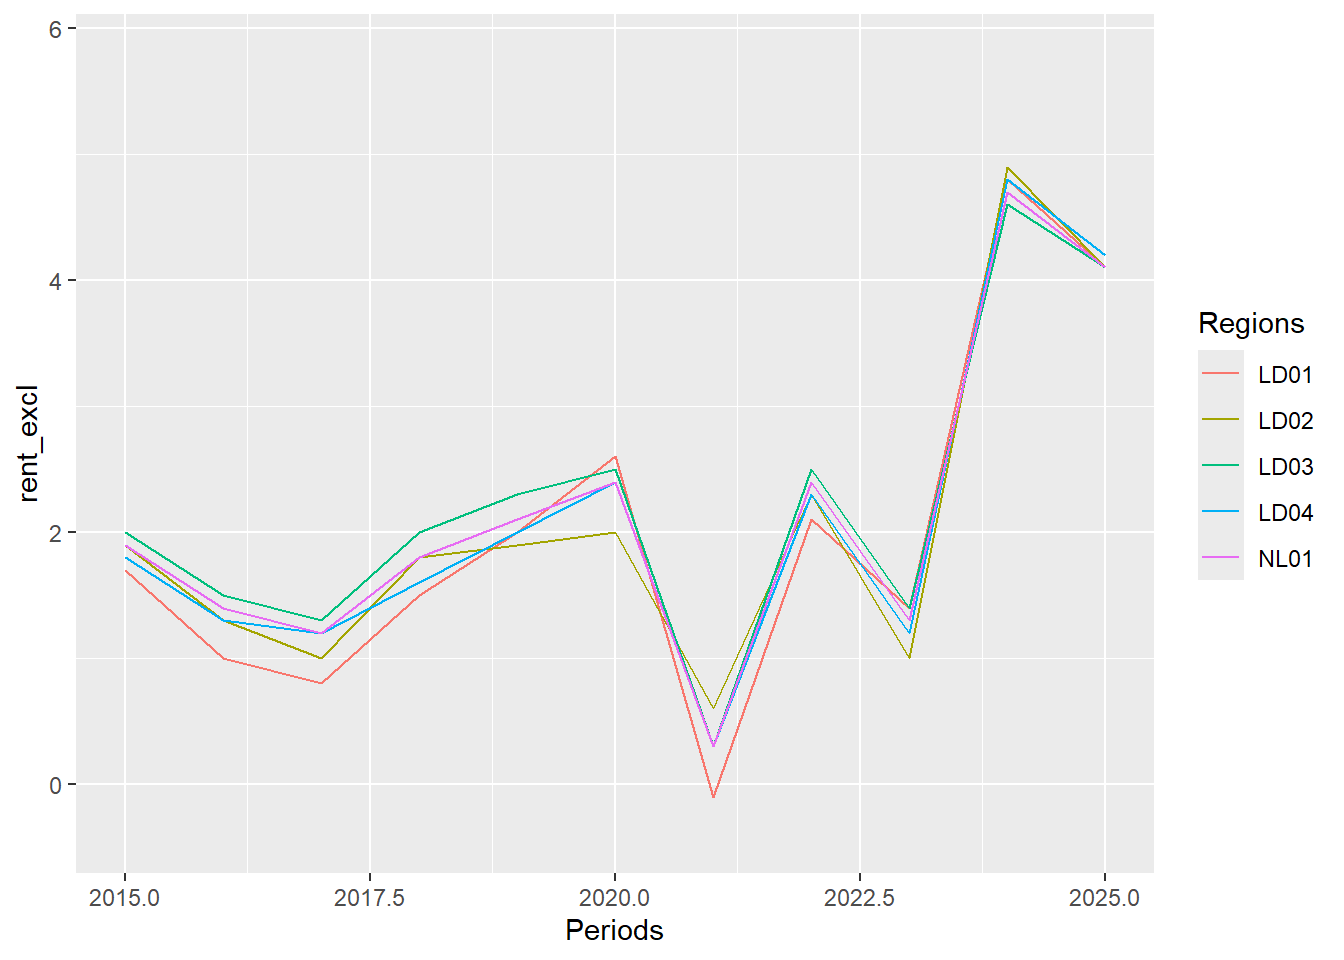
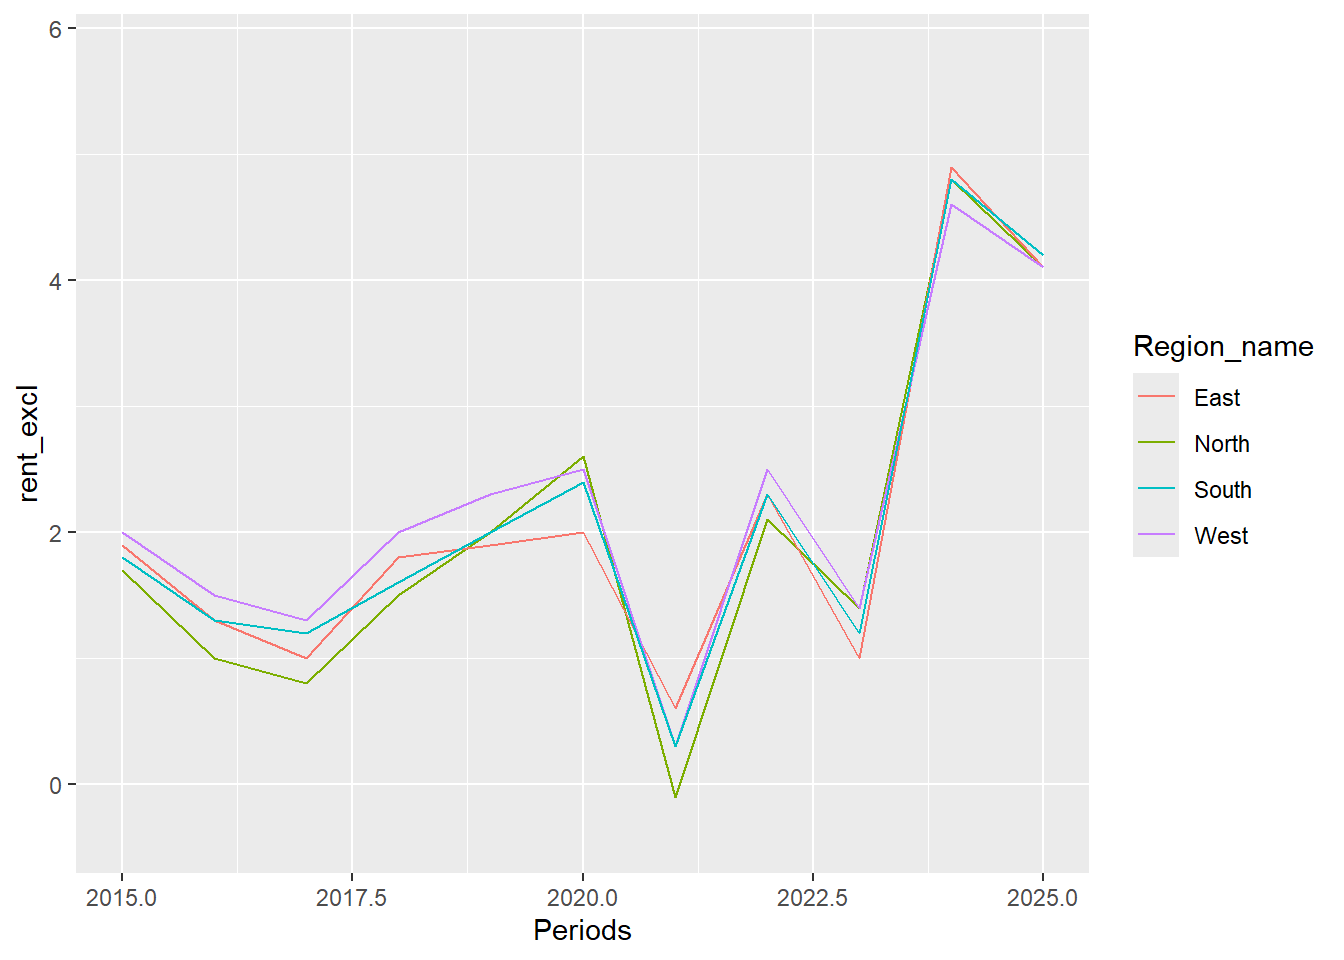
Assigning Region codes a readable name

diff --git a/Rent Analysis.html b/Rent Analysis.html
@@ -286,6 +286,14 @@ pre > code.sourceCode > span > a:first-child::before { text-decoration: underlin
 <section id="region-names" class="level3">
 <h3 class="anchored" data-anchor-id="region-names">Region names</h3>
 <p>Changing region codes to names for better readability in the following analysis.</p>
+<div class="cell">
+<div class="code-copy-outer-scaffold"><div class="sourceCode cell-code" id="cb4"><pre class="sourceCode r code-with-copy"><code class="sourceCode r"><span id="cb4-1"><a href="#cb4-1" aria-hidden="true" tabindex="-1"></a>region_labels <span class="ot">&lt;-</span> <span class="fu">tibble</span>(</span>
+<span id="cb4-2"><a href="#cb4-2" aria-hidden="true" tabindex="-1"></a>  <span class="at">Regions =</span> <span class="fu">c</span>(<span class="st">"N01"</span>,<span class="st">"LD01"</span>, <span class="st">"LD02"</span>,<span class="st">"LD03"</span>,<span class="st">"LD04"</span>),</span>
+<span id="cb4-3"><a href="#cb4-3" aria-hidden="true" tabindex="-1"></a>  <span class="at">Region_name =</span> <span class="fu">c</span>(<span class="st">"Total country"</span>, <span class="st">"North"</span>, <span class="st">"East"</span>, <span class="st">"West"</span>,<span class="st">"South"</span>)</span>
+<span id="cb4-4"><a href="#cb4-4" aria-hidden="true" tabindex="-1"></a>)</span>
+<span id="cb4-5"><a href="#cb4-5" aria-hidden="true" tabindex="-1"></a>proximity_rent <span class="ot">&lt;-</span> proximity_rent <span class="sc">|&gt;</span></span>
+<span id="cb4-6"><a href="#cb4-6" aria-hidden="true" tabindex="-1"></a>  <span class="fu">left_join</span>(region_labels, <span class="fu">join_by</span>(Regions))</span></code></pre></div><button title="Copy to Clipboard" class="code-copy-button"><i class="bi"></i></button></div>
+</div>
 </section>
 </section>
 <section id="variable-description" class="level2">
@@ -351,11 +359,10 @@ pre > code.sourceCode > span > a:first-child::before { text-decoration: underlin
 <section id="graphical-representation" class="level3">
 <h3 class="anchored" data-anchor-id="graphical-representation">Graphical Representation</h3>
 <p>Subset of Regions: NL01 - country, LD01 - North, LD02 - East, LD03 - West, LD04 - South</p>
-</section>
 <div class="columns">
 <div class="column" style="width:50%;">
-<section id="rent-increase-including-harmonization" class="level3">
-<h3 class="anchored" data-anchor-id="rent-increase-including-harmonization">Rent increase including Harmonization</h3>
+<section id="rent-increase-incl.-harmonization" class="level4">
+<h4 class="anchored" data-anchor-id="rent-increase-incl.-harmonization">Rent increase incl.&nbsp;Harmonization</h4>
 <div class="cell">
 <div class="cell-output-display">
 <div>
@@ -367,8 +374,8 @@ pre > code.sourceCode > span > a:first-child::before { text-decoration: underlin
 </div>
 </section>
 </div><div class="column" style="width:50%;">
-<section id="rent-increase-excluding-harmonisation" class="level3">
-<h3 class="anchored" data-anchor-id="rent-increase-excluding-harmonisation">Rent increase excluding Harmonisation</h3>
+<section id="rent-increase-excl.-harmonization" class="level4">
+<h4 class="anchored" data-anchor-id="rent-increase-excl.-harmonization">Rent increase excl. Harmonization</h4>
 <div class="cell">
 <div class="cell-output-display">
 <div>
@@ -381,6 +388,7 @@ pre > code.sourceCode > span > a:first-child::before { text-decoration: underlin
 </section>
 </div>
 </div>
+</section>
 </section>
 
 </main>
